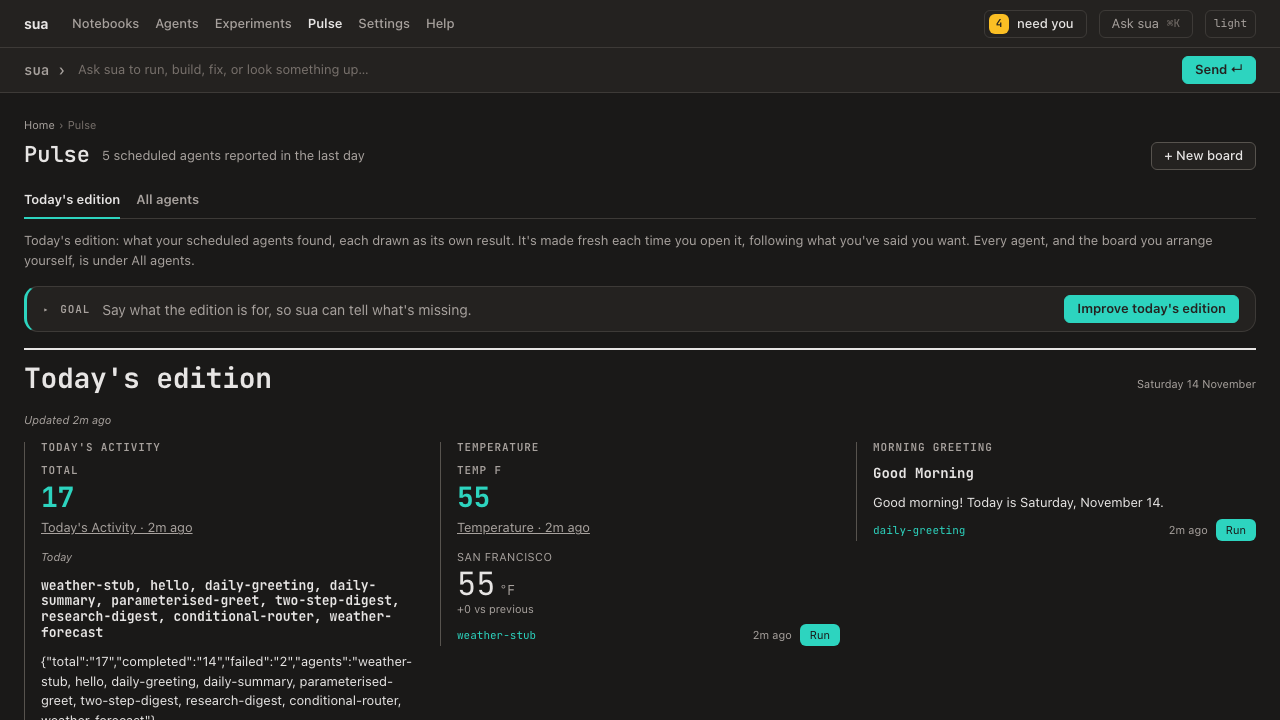
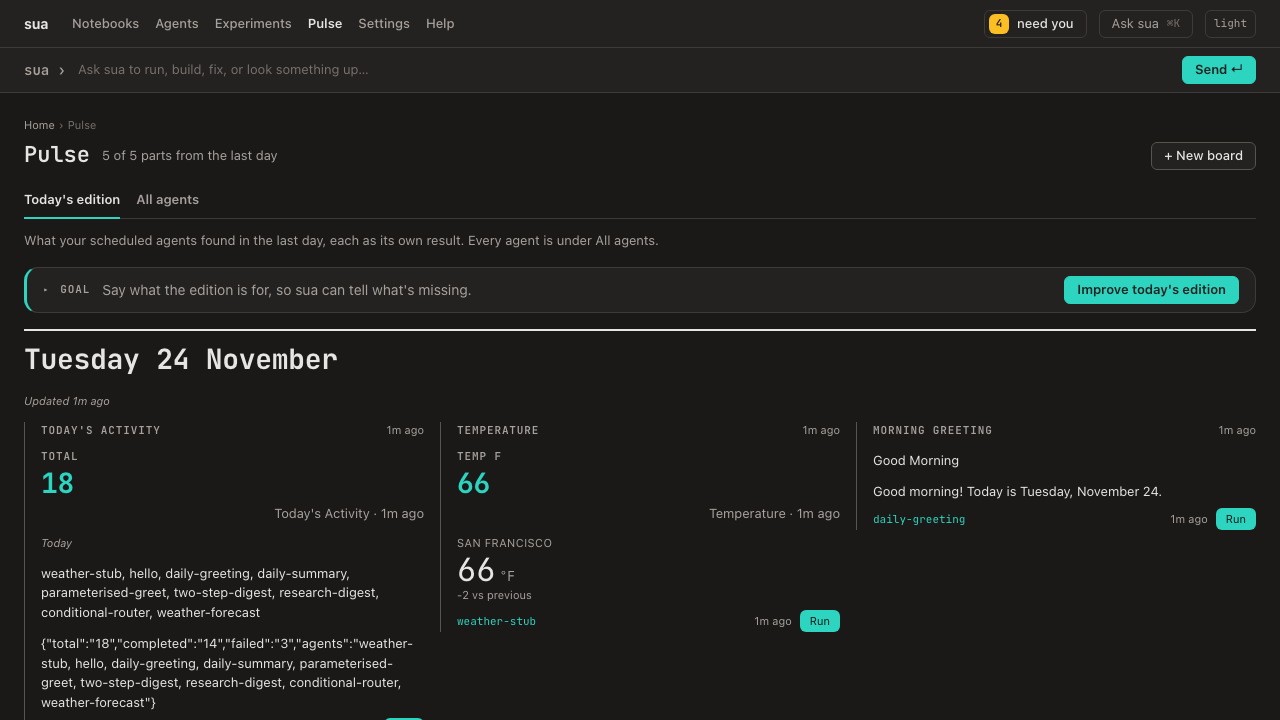
docs(readme): an accurate front door after the system review (#1290)
* docs(readme): provider order, upkeep and run commands, shorter bullets

* docs(readme): retake the Pulse screenshot (current header, from the fixture)

---------

diff --git a/README.md b/README.md
@@ -9,7 +9,7 @@ MIT-licensed. Published to [npm](https://www.npmjs.com/search?q=%40some-useful-a
 ## What you get
 
 **Agents**
-- **Agents as flows** — each agent is a DAG of nodes: shell commands, `llm-prompt` model calls, named tools, `goal` nodes, and `ask` nodes. Flow control (conditional, switch, loop, agent-invoke, branch, end, break) lets agents make decisions and run sub-agents. Reference: [docs/flows.md](docs/flows.md).
+- **Agents as flows** — each agent is a set of connected nodes: shell commands, `llm-prompt` model calls, named tools, `goal` nodes, and `ask` nodes. Flow control (conditional, switch, loop, agent-invoke, branch, end, break) lets agents make decisions and run sub-agents. Reference: [docs/flows.md](docs/flows.md).
 - **Goal agents** — a `goal` node gives a model a goal, tools and a budget (turns, time), and it works until it can answer. Build from goal drafts one for open-ended asks. See [docs/goal-agents.md](docs/goal-agents.md).
 - **Agents as tools** — put `agent:<id>` in a node's `tools:` and the model can call another agent as a sub-run (up to 3 levels deep, no cycles). See [docs/agents-as-tools.md](docs/agents-as-tools.md).
 - **Conversations** — talk to any agent with a text input and follow up: the agent's **Chat** tab (replies stream in live over a WebSocket), `sua agent chat`, or MCP `run-agent` with a `sessionId`. See [docs/conversations.md](docs/conversations.md).
@@ -18,8 +18,8 @@ MIT-licensed. Published to [npm](https://www.npmjs.com/search?q=%40some-useful-a
 - **Behaviors** — write down how an agent should conduct itself as an [Agent Behavior](docs/behaviors.md) spec, and optionally let it steer the agent.
 
 **Models and tools**
-- **Many providers, with a fallback waterfall** — Claude, Codex, on-device Apple Foundation Models, or any **OpenAI-compatible endpoint** for local / self-hosted models (llama.cpp, LM Studio, Ollama, vLLM, …). Reorder, add and enable/disable providers at `/settings/llm`; on a classified failure (down, timeout, quota, 401, 429) the run falls through to the next one. Pin per node or agent with `provider:`. Claude and Codex get a node's `tools:` over a short-lived local MCP endpoint; OpenAI-compatible endpoints get them natively. A local model server can run as a `sua daemon` service. See [docs/llm-providers.md](docs/llm-providers.md).
-- **Built-in tools** — `shell-exec`, `http-get`, `http-post`, `file-read`, `file-write`, `json-parse`, `json-path`, `template`, `csv-to-chart-json`, web fetch and scrape, `web-screenshot`, `notebook-read`, `experiment-read`, `board-read` / `board-place`, and more; plus MCP-imported tools, your own tools, and tools generated by integrations. Every tool call is recorded on the run page. See [docs/tools.md](docs/tools.md).
+- **Many providers, tried in order** — Claude, Codex, on-device Apple Foundation Models, or any **OpenAI-compatible endpoint** for local / self-hosted models (llama.cpp, LM Studio, Ollama, vLLM, …). Set the provider order and add or turn off providers at `/settings/llm`. On a classified failure (down, timeout, quota, 401, 429) a node moves on to the next provider; a provider that's down is skipped for a while, Settings → LLM shows how each one did this week, and an optional daily cap limits what's spent when the first one fails. Pin per node or agent with `provider:`. Claude and Codex get a node's `tools:` over a short-lived local MCP endpoint; OpenAI-compatible endpoints get them natively. A local model server can run as a `sua daemon` service. See [docs/llm-providers.md](docs/llm-providers.md).
+- **Built-in tools** — `shell-exec`, `http-get`, `http-post`, `file-read`, `file-write`, `json-parse`, `json-path`, `template`, `csv-to-chart-json`, web fetch and scrape, `web-screenshot`, `notebook-read`, `experiment-read`, `board-read` / `board-place`, and more; plus tools imported from MCP servers and tools generated by integrations. Every tool call is recorded on the run page. See [docs/tools.md](docs/tools.md).
 - **Integrations** — connect a data source or service at `/tools?tab=integrations` and get tools for free: CSV / Postgres / SQLite generate find/count tools, Gmail connects via OAuth, and `notify` handlers can use saved Slack / webhook / file destinations. See [docs/integrations.md](docs/integrations.md).
 - **MCP servers** — paste a Claude Desktop / Cursor `mcpServers` config, pick which tools to import, and runs can call them like any other tool. Manage servers at `/tools?tab=servers`. See [docs/mcp.md](docs/mcp.md).
 
@@ -27,15 +27,17 @@ MIT-licensed. Published to [npm](https://www.npmjs.com/search?q=%40some-useful-a
 - **Tool policies** — allow/deny rules checked on every tool call, by tool, resource (URL, path, command) and agent source. Edit and test them in **Settings → Policies** ("Would this be allowed?"). See [docs/tool-policies.md](docs/tool-policies.md).
 - **Cost and spend limits** — every run records its tokens and cost; see them per run, in **Settings → Usage**, or with `sua usage`. Cap a run or an agent's day with `spendLimit: { perRunUsd, perDayUsd }`. See [docs/cost.md](docs/cost.md).
 - **Secrets store** — encrypted at rest (AES-256-GCM, scrypt). Protect it with a passphrase, or use the zero-friction fallback keyed off a stable local machine key. Dashboard CRUD with redaction.
-- **Run reliability** — per-node `timeout:` and agent `timeoutSec:` ceilings; a reaper fails runs orphaned by a restart and kills their leftover processes; cancel escalates to SIGKILL. A step can **keep going if it fails** (`optional: true`, or the box on the step's Edit page), so one dead source doesn't sink a search; a loop can run its items at the same time (`loopConfig.concurrency`). See [docs/SECURITY.md](docs/SECURITY.md) and [docs/agents.md](docs/agents.md).
+- **Run reliability** — per-node `timeout:` and agent `timeoutSec:` ceilings. Stopping a node (Cancel, a timeout, a dashboard restart) also stops everything it started; a clean shutdown ends its runs as cancelled, and a reaper cleans up after a crash. A step can **keep going if it fails** (`optional: true`, or the box on the step's Edit page), so one dead source doesn't sink a search; a loop can run its items at the same time (`loopConfig.concurrency`). See [docs/agents.md](docs/agents.md#timeouts) and [docs/SECURITY.md](docs/SECURITY.md).
+- **Retries and checks** — a `retry:` policy runs a failed run again when the failure looks transient (a timeout, a command that failed to start); `successCriteria` checks what an agent produced and runs it again with feedback when it falls short; outcome detection records what a run actually changed against what was expected. See [docs/retry.md](docs/retry.md), [docs/success-criteria.md](docs/success-criteria.md) and [docs/outcome-detection.md](docs/outcome-detection.md).
 
 **Triggers**
 - **Scheduling** — cron on any agent; `/scheduled` lists every scheduled agent with Pause / Resume / Activate, and Pulse shows a red scheduler tile if agents are scheduled but the scheduler isn't running. A schedule you change, and an agent you edit, reach the next scheduled run within a minute, without a restart. A Temporal provider is available for durable runs. See [docs/temporal.md](docs/temporal.md).
 - **Inbound webhooks** — start an agent from another service with `POST /hooks/<agent>`: a per-agent secret (or a GitHub signature), body-to-input mapping and filters. See [docs/webhooks.md](docs/webhooks.md).
-- **MCP server (outbound)** — expose your agents to Claude Desktop and other MCP clients; `run-agent` also holds conversations (`message` + `sessionId`), `board-read` / `board-place` arrange boards, `build-board` builds one from a request, and `notebook-create` starts a notebook (from a template or an ask). See [docs/mcp.md](docs/mcp.md).
+- **MCP server (outbound)** — expose your agents to Claude Desktop and other MCP clients: run an agent or hold a conversation with it, read and arrange boards, and start and read notebooks. The full tool list is in [docs/mcp.md](docs/mcp.md).
 
 **Notebooks: goals you keep**
-- **Notebooks** — a goal sua keeps for you over time: a car to buy, a job to find, a place to rent. Say it in a sentence and sua drafts the notebook (limits, what "done" means, what to note for each option, stages, which agents search); then it searches, files what it finds as options with their facts and pictures, and tracks them through a funnel to a decision. Talk to sua about it in its own conversation. Its work goes in steps that pause after each one: find, source, check and decide, or, to get ready for a meeting, **Learn about** the person and their company (facts with sources, and a photo kept only when it's clearly them) and **Write** the talking points; a find step with no agent of its own uses sua's finder, several narrow searches at once. A new notebook picks a page that fits what it's for: a **Shortlist** to choose from, a **Meeting briefing**, or one drawn for its job. Change a notebook by saying what to change on its **Edit** page, and see it before you save. Save a notebook's setup as a **template** with what changes each time (who you're meeting) and start new ones from it, and share a **brief** of its page, then each option in full, that prints as a PDF. See [docs/notebooks.md](docs/notebooks.md). Give any notebook a file or a paste (a LinkedIn profile saved as a PDF, a résumé, notes): on its page, on the draft, from a template that asks for it, or attached to a message to sua. Only the text is kept.
+- **Notebooks** — a goal sua keeps for you over time: a car to buy, a job to find, a meeting to get ready for. Say it in a sentence and sua drafts the notebook; then it works in steps that pause after each one (find, source, check, decide; or **Learn about** and **Write** for a meeting), files what it finds as options with their facts and sources, and tracks them to a decision. Each notebook gets a page that fits its job: a **Shortlist**, a **Meeting briefing**, an **Answer**, or a **Runbook** to follow step by step. Change one by saying what to change, save it as a **template**, and share a brief that prints as a PDF. Give it a file or a paste (a résumé, notes) and it reads the text. See [docs/notebooks.md](docs/notebooks.md).
+- **Briefings, with their sources** — "Tell me about…" a company, a person, a product or a topic, and the notebook is a briefing on it: each part cites what it rests on, says how sure it is, and lists what isn't known. See [docs/notebooks.md](docs/notebooks.md#tell-me-about-a-briefing-on-a-subject).
 - **Experiments** — find out what changes what an agent produces. Give one agent the same ask under different versions of it (an earlier version against a later one, another model, another value for one of its inputs), run the whole agent a few times under each, and read how much the versions' results have in common against how much two runs of the same version do. A whole notebook can be run the same way, as a fresh copy for each version, changing its limits and checks, something you gave it, who does a step, or the model. The numbers are counted from the runs. See [docs/experiments.md](docs/experiments.md).
 
 **Seeing results**
@@ -101,6 +103,15 @@ sua agent webhook <name> --on           # start it from another service: POST /h
 sua agent reimport <path>               # refresh agent(s) in DB from on-disk YAML
 ```
 
+### Inspecting runs
+
+```bash
+sua agent status                        # recent runs, newest first
+sua agent logs <runId>                  # one run's output
+sua agent cancel <runId>                # stop a run (and everything its nodes started)
+sua outcome list                        # recent outcome records: what was expected, what resulted
+```
+
 ### Memory, cost and policies
 
 ```bash
@@ -118,7 +129,7 @@ sua behaviors list                      # Agent Behavior specs (also: show, vali
 sua workflow list                       # agents in the store, with their nodes
 sua workflow run <id>                   # execute an agent's flow
 sua workflow replay <runId> --from <nodeId>  # replay from a node
-sua workflow import-yaml <file>         # import a v2 YAML into the store
+sua workflow import-yaml <file>         # import an agent YAML file into the store
 ```
 
 ### Tools
@@ -154,25 +165,28 @@ sua secrets list                        # list names (values hidden)
 sua secrets delete <NAME>               # remove a secret
 ```
 
-### Build planner
-
-```bash
-sua planner smoke                       # dry-run preview of pipeline scenarios
-sua planner smoke --live                # run all 6 server scenarios end-to-end
-sua planner smoke --live --browser      # also drive 2 wizard scenarios via playwright
-```
 
 ### Infrastructure
 
 ```bash
 sua init                                # initialize a project
-sua doctor                              # check prerequisites
 sua mcp start                           # start the MCP server
 sua dashboard start                     # start the web dashboard
 sua dashboard signin-url                # print the dashboard sign-in link again
 sua daemon start                        # run dashboard + scheduler + MCP (+ model, worker) detached
 sua schedule list                       # show scheduled agents
 ```
+
+### Upkeep
+
+```bash
+sua doctor                              # prerequisites, file permissions, how each model provider did
+sua daemon status                       # which services are running (also: restart, stop, logs)
+sua db compact                          # store repeated run inputs once, then shrink the database
+sua backups prune --dry-run             # old database backups (checkout installs; see CONTRIBUTING.md)
+```
+
+`sua <command> --help` lists every subcommand, and the dashboard's **Help** page lists them by what they're for.
 
 ## Dashboard
 
@@ -198,25 +212,25 @@ Start with `sua dashboard start`. Dark mode by default, JetBrains Mono, warm sto
 
 ![Agent config](docs/images/agent-config.png)
 
-![Run detail: the DAG and what the run achieved](docs/images/run-detail.png)
+![Run detail: the diagram and what the run achieved](docs/images/run-detail.png)
 
 ![Settings → Appearance: your brands, or ask sua to make one](docs/images/appearance.png)
 
-- **Home** — `/` shows how things stand ("3 need you"), **Recent notebooks** (a card each with its picture, best option, progress, and **sua asked you** when sua is waiting on you), and **Today**: what needs you, what's happening, and whether everything else is fine. Clicking a row opens it in the sua panel. The **Ask sua** bar on every page starts a conversation, and the reply streams into a panel beside the page that follows you as you move around (**Cmd/Ctrl+K** opens and closes it); open a notebook and the panel follows to its conversation. A nav badge counts what needs you. Every conversation, list and thread side by side, is at `/inbox`. Home also has **Today's brief** (the day's numbers from your scheduled agents), **Next up** (up to five specific things to do next, each with its button and **Not now**), a one-line **Ask sua** box with a **Start** row for your templates, and **Today's reads**, which link into Pulse's edition. **Adjust Home** moves or hides any part; tick Today's rows to close or dismiss several at once.
-- **Notebooks** — `/notebooks` lists them with covers, search and filters; **+ New notebook** opens **Start a notebook** (a sentence, a draft to check, and suggestions from your conversations). A notebook's page fits what it's for: a shortlist shows where it stands, done-when, a price map and funnel, the shortlist and how we got here; a meeting briefing shows who they are, what to talk about and what they said. Each option has its own page. **Edit** (`/notebooks/:id/edit`): say what to change (**Talk**), edit the whole notebook as text (**Prompt**), or pick how it looks from pictures of its pages (**How it looks**), with a preview before you save; the brief (`/notebooks/:id/brief.html`, printable as a PDF) and the shortlist as CSV are one click away. See [docs/notebooks.md](docs/notebooks.md). Notebooks carry topic **tags** the list filters by. In a notebook's conversation you can **correct** a fact, the photo, a limit or a check, and sua rechecks what that changes. **Update** runs its steps again and says what's new; **Clear and run again** starts a fresh copy and archives the old one. **Download / share** has the brief (HTML or PDF) and a **TL;DR picture** you can redraw or lead the page with.
+- **Home** — `/` leads with **Next up** (up to five specific things to do, each with its button), **Today's brief** (the day's numbers from your scheduled agents), your recent notebooks, and **Today**: what needs you and what's happening. The **Ask sua** bar on every page opens a conversation in a panel that follows you from page to page (**Cmd/Ctrl+K**); every conversation and thread is at `/inbox`. **Adjust Home** moves or hides any part. See [docs/surfaces.md](docs/surfaces.md).
+- **Notebooks** — `/notebooks` lists them with covers, tags, search and filters; **+ New notebook** turns a sentence into a draft to check. Each option has its own page. **Edit** changes a notebook by talking, as text, or by picking how its page looks, with a preview before you save; **Update** runs its steps again and says what's new; **Download / share** has the brief (HTML or PDF) and a TL;DR picture. See [docs/notebooks.md](docs/notebooks.md).
 - **Experiments** — `/experiments` lists them with what each found; **New experiment** sets one up in six steps: the question, what to run (an agent or a whole notebook), what you ask it, what changes, scoring, and a summary to check. A notebook runs as a fresh copy for each version, so yours is never touched. An experiment's page has **Run it**, the finding in a sentence, each version against the baseline, what each version found, and every run.
-- **Pulse** — `/pulse` opens on **Today's edition**: a front page generated from what your scheduled agents produced in the last day, with a band of numbers by day. **Improve today's edition** and asking for a change both stick: it remembers how you want it. **All agents** (`/pulse/agents`) is your board of agent tiles, drawn as an A2UI canvas: what you've placed first, then every other agent under **Everything else** in tabs (Health / Recent / Idle / Never run). Each agent with a `signal:` (or a `view:`) shows its latest result; every tile has a **Run** button. 13 display templates. **✎ Arrange** lays it out; a dropdown switches to any installed pack or user dashboard; "Hide all" / "Show all" toggle every agent.
+- **Pulse** — `/pulse` opens on **Today's edition**, a front page generated from what your scheduled agents produced in the last day; it says how fresh it is and remembers how you want it. **All agents** (`/pulse/agents`) is the board of agent tiles, each with its latest result and a **Run** button; **✎ Arrange** lays it out, and a dropdown switches to any pack or dashboard. See [docs/boards.md](docs/boards.md).
 - **Tiles that run themselves** — adding an agent to a dashboard runs it once automatically so the tile is never blank. "Run again" re-runs the agent and refreshes the tile in place instead of navigating away. If a widget references an external image host that the dashboard's CSP blocks, a one-click "allow" modal adds it to the agent's `img-src` allowlist.
 - **Packs** — `/packs` lists all registered packs (bundled + user-created), shows install state, and routes Install/Uninstall through one click. Built-in packs ship in `packages/core/packs/*.yaml` and auto-register on daemon start.
 - **Dashboards** — canvases at `/dashboards/:id` (arrange them like Pulse; **Save as pack** exports the layout); rename and manage at `/dashboards/:id/edit`. Pack-owned dashboards are editable (rename, reorder, add/remove tiles) but not deletable; uninstall the pack instead. User-created dashboards are deletable. Create a new one from the dropdown's "+ New dashboard name" input.
 - **Build from goal** — Build button on `/agents` and the home page. Describe what you want; `goal-surveyor` → one `agent-drafter` per fragment (in parallel, each behind a structural critic) → `dashboard-designer` produce a plan. Each draft shows its shape (diagram + label) and why it was chosen; switch a goal agent to a fixed flow or back, **Try it** without saving, then keep it. Full guide: [docs/build-from-goal.md](docs/build-from-goal.md).
 - **Suggest a layout** — on Pulse and any dashboard: the layout planner proposes an arrangement, opened in the editor for you to adjust and save. To build a new board from a description instead, use **＋ New board**.
 - **Schedule editor** — an agent's **Settings** tab (`/agents/<id>/config`) has a Schedule section so you can set or clear a cron expression without hand-editing YAML. Server-side validation rejects invalid expressions and sub-minute cadences (unless the agent opts in via `allowHighFrequency: true`).
-- **Agents** — `/agents` asks **What do you want to do?**: keyword matches show at once, then sua's picks with why each fits (or an offer to build one). With no question it shows shelves (your go-to, used lately, fills notebooks, on a schedule), then your agents grouped by what they do, each with a one-line "use it for" (sorted by sua), and every agent as one line; filters are folded away, and **User / Examples** tabs (plus Community when you have one). Detail page tabs: Overview (the latest result first, the diagram with a run in progress drawn live, stats, "What you can ask" chips, memory, agent calls), **Chat**, Nodes (the canvas above the steps; add/edit any node type, including goal nodes with a searchable tools picker; a wiring mode on the graph), **Settings** (inputs, output widget, signal, secrets, schedule), Runs, YAML.
+- **Agents** — `/agents` asks **What do you want to do?** and points you to the agents that do it, or offers to build one; with no question it shows your go-to agents, then every agent grouped by what it does. An agent's page has Overview (the latest result, the diagram, stats), **Chat**, Nodes (edit any node, rewire the diagram), **Settings** (inputs, widget, secrets, schedule), Runs and YAML.
 - **View editor** — `/agents/:id/view` edits an agent's A2UI view with a live preview, or asks sua to **Redesign** it. See [docs/a2ui-views.md](docs/a2ui-views.md).
 - **Output widget editor** — at `/agents/:id/output-widget` (linked from the Settings tab), pick from visual cards (raw / key-value / diff-apply / dashboard / ai-template), load one of 5 starter examples in one click, watch a live preview rerender as you edit. Full reference: [docs/output-widgets.md](docs/output-widgets.md).
 - **Tools** — the one home for everything an agent can call: **Imported / Built-in / Servers / Integrations** tabs, with counts, filtering and pagination. Paste a Claude-Desktop-style config at `/tools/mcp/import` to import MCP servers.
-- **Settings → LLM** — the provider waterfall: reorder providers, add custom OpenAI-compatible endpoints (name / API base / model / key) with a reachability probe, and enable/disable any provider to run local-only. Codex and Claude each have a **Model** picker listing the models that CLI offers your account now; if one in use is retired, sua posts a System health thread naming where it's used. Full guide: [docs/llm-providers.md](docs/llm-providers.md).
+- **Settings → LLM** — the provider order: reorder providers, add custom OpenAI-compatible endpoints (name / API base / model / key) with a reachability probe, and turn any provider off to run local-only. Each provider shows how it did over the last week and whether it's being skipped after a failure (**Try it now** clears that), and **Daily cap on fallbacks** limits what's spent when an earlier provider fails. Codex and Claude each have a **Model** picker listing the models that CLI offers your account now. Full guide: [docs/llm-providers.md](docs/llm-providers.md).
 - **Settings → Usage** — what runs cost over 1 / 7 / 30 days, by agent and provider, and default spend limits. See [docs/cost.md](docs/cost.md).
 - **Settings → Policies** — the tool policy: add, edit, reorder and delete rules, edit as JSON, undo, and test "Would this be allowed?". See [docs/tool-policies.md](docs/tool-policies.md).
 - **Settings → Appearance** — the look you have now, drawn as a small light and dark dashboard; a gallery of presets and **Your brands** that you use in one click (Undo goes back); **Fine-tune** with swatches, fonts, corners and tile accents; and **Make one with sua** (it proposes a brand from your website or a few words).
@@ -279,7 +293,7 @@ Full model: [docs/SECURITY.md](docs/SECURITY.md)
 | [@some-useful-agents/core](https://www.npmjs.com/package/@some-useful-agents/core) | Types, schemas, stores, executor, tools, secrets |
 | [@some-useful-agents/cli](https://www.npmjs.com/package/@some-useful-agents/cli) | CLI commands, tutorial, scaffolding |
 | [@some-useful-agents/dashboard](https://www.npmjs.com/package/@some-useful-agents/dashboard) | Web dashboard (Express, server-rendered HTML) |
-| [@some-useful-agents/mcp-server](https://www.npmjs.com/package/@some-useful-agents/mcp-server) | MCP server (HTTP/SSE transport) |
+| [@some-useful-agents/mcp-server](https://www.npmjs.com/package/@some-useful-agents/mcp-server) | MCP server (Streamable HTTP, stateless) |
 | [@some-useful-agents/temporal-provider](https://www.npmjs.com/package/@some-useful-agents/temporal-provider) | Temporal worker for durable workflows |
 
 ## Requirements
@@ -300,12 +314,15 @@ Full model: [docs/SECURITY.md](docs/SECURITY.md)
 - [Ask a person](docs/ask-a-person.md) — `ask` nodes and the `ask-human` tool
 - [Webhooks](docs/webhooks.md) — start an agent from another service
 - [Cost](docs/cost.md) — what runs cost, and spend limits
+- [Retry](docs/retry.md) — retrying a failed run, by hand or by policy
+- [Success criteria](docs/success-criteria.md) — check what an agent produced, and run it again when it falls short
+- [Outcome detection](docs/outcome-detection.md) — what a run changed, against what was expected
 - [Tool policies](docs/tool-policies.md) — allow/deny rules, the Policies editor
 - [A2UI views](docs/a2ui-views.md) — widgets as declarative UI, the sua catalog
 - [Behaviors](docs/behaviors.md) — Agent Behavior specs
 - [Build from goal](docs/build-from-goal.md) — drafting agents from a description
 - [Temporal](docs/temporal.md) — durable runs
-- [LLM providers](docs/llm-providers.md) — the provider waterfall, custom OpenAI-compatible / local endpoints, enable/disable, node pins
+- [LLM providers](docs/llm-providers.md) — the provider order, custom OpenAI-compatible / local endpoints, enable/disable, node pins
 - [Inbox control plane](docs/inbox-control-plane.md) — sua's replies, run/build/resolve actions, widgets in threads
 - [Tools](docs/tools.md) — built-in tools, MCP tools, user-authored tools
 - [MCP servers](docs/mcp.md) — import, enable/disable, lifecycle
